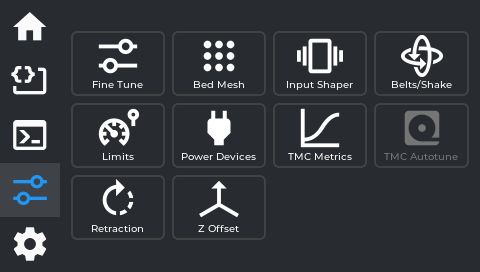
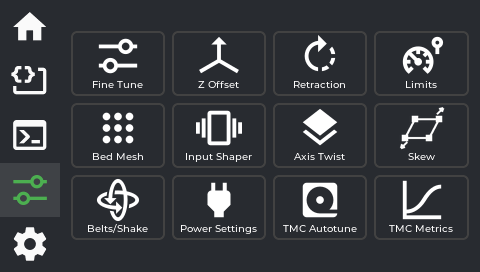
docs(readme): real on-device screenshots, fix feature accuracy, add missing extras
Replaced the simulator-captured gallery with real screenshots taken
live from an Ender-3 V3 KE during the wiki accuracy audit. Removed the
now-unused old simulator captures.

Also fixed two accuracy issues found during that same audit:
- Fine-tune feature bullet listed firmware retraction as part of it;
  it's a separate panel.
- Install section was missing 2 of the installer's optional extras
  (Firmware Retraction, Screws Tilt Adjust) and didn't mention that
  re-running the installer now merges into existing settings instead
  of overwriting them.

diff --git a/README.md b/README.md
@@ -27,7 +27,7 @@ It bundles three things people usually hunt down separately:
 - 🖨️ **Print control & status** — temps, fans, LED, movement/homing, file browser (incl. USB sticks), Spoolman
 - 🟦 **Interactive 3D bed mesh** — rotate / zoom / pan colour height map (plus a table view)
 - 🎯 **On-screen calibration suite** — Axis Twist wizard, Skew Correction, TMC Autotune, live Z-offset baby-stepping, input-shaper & belt graphs
-- 🎚️ **Fine-tune mid-print** — speed, flow, Z-offset, pressure advance, firmware retraction
+- 🎚️ **Fine-tune mid-print** — speed, flow, Z-offset, pressure advance (firmware retraction is its own panel)
 - 📷 **Camera** — persistent image tuning (contrast/saturation) on the stock camera
 - 🔔 **Buzzer beeps & songs** — real-pitch `M300`, `PLAY_TUNE` jingles (editable `songs.conf`), soft touchscreen click
 - 🔌 **Power-loss recovery**, **WiFi low-latency** toggle, on-screen notifications
@@ -50,10 +50,12 @@ sh -c "$(wget --no-check-certificate -qO - https://raw.githubusercontent.com/cor
 > Use `installer.sh` — **not** `installer-deb.sh` (that one is for aarch64/Debian and refuses to run on the KE).
 
 **It also offers the print-quality extras** (install all / skip all / choose each): KAMP, Axis Twist
-Compensation, TMC Autotune, Skew Correction, the Creality Nebula camera (image tuning), the
-Pause/Resume layer-shift fix, and the Creality macros (M600, Save Z-Offset, useful macros, Exclude Object).
-Already set some up by hand or via the **Creality Helper Script**? It detects and **skips** those — safe to
-run on an existing setup, and it **never rewrites your saved calibrations**.
+Compensation, TMC Autotune, Skew Correction, Firmware Retraction, Screws Tilt Adjust, the Creality
+Nebula camera (image tuning), the Pause/Resume layer-shift fix, and the Creality macros (M600, Save
+Z-Offset, useful macros, Exclude Object). Already set some up by hand or via the **Creality Helper
+Script**? It detects and **skips** those — safe to run on an existing setup, and re-running it **merges
+into your existing settings rather than overwriting them**, so nothing you've already configured (on
+the screen or in Klipper) gets reset.
 
 **Updating:** from the screen, **Settings → Update Guppy**. Coming from an older version (or "GuppyKE")?
 See **[Upgrading](https://github.com/coreflake1/guppyscreen/wiki/Upgrading)**.
@@ -75,16 +77,17 @@ Thingiverse — **[Ender-3 V3 KE screen mount](https://www.thingiverse.com/thing
 
 ## Screenshots
 
-> Captured in the desktop simulator at the KE's native 480×272.
+> Captured live from a real Ender-3 V3 KE at its native 480×272 — not the simulator. Many more, covering
+> every screen in the app, are in the [screen reference](https://github.com/coreflake1/guppyscreen/wiki/Using-GuppyKE).
 
 | | |
 |:---:|:---:|
-| **Home** | **Live Z-Offset** |
-| ![Home screen](docs/screenshots/home.png) | ![Z-Offset baby-stepping](docs/screenshots/z-offset.png) |
-| **Firmware Retraction** | **Tune menu** |
-| ![Firmware Retraction](docs/screenshots/firmware-retraction.png) | ![Tune menu](docs/screenshots/tune-menu.png) |
-| **Fans** | **Extruder** |
-| ![Fans](docs/screenshots/fans.png) | ![Extruder heating](docs/screenshots/extruder.png) |
+| **Home** | **Tune menu** |
+| ![Home screen](docs/screenshots/home.png) | ![Tune menu](docs/screenshots/tune-menu.png) |
+| **Interactive 3D bed mesh** | **Print status** |
+| ![3D bed mesh](docs/screenshots/bed-mesh-3d.png) | ![Print status](docs/screenshots/print-status.png) |
+| **Skew Correction** | **Spoolman** |
+| ![Skew Correction](docs/screenshots/skew-correction.png) | ![Spoolman](docs/screenshots/spoolman.png) |
 
 ## Documentation
 